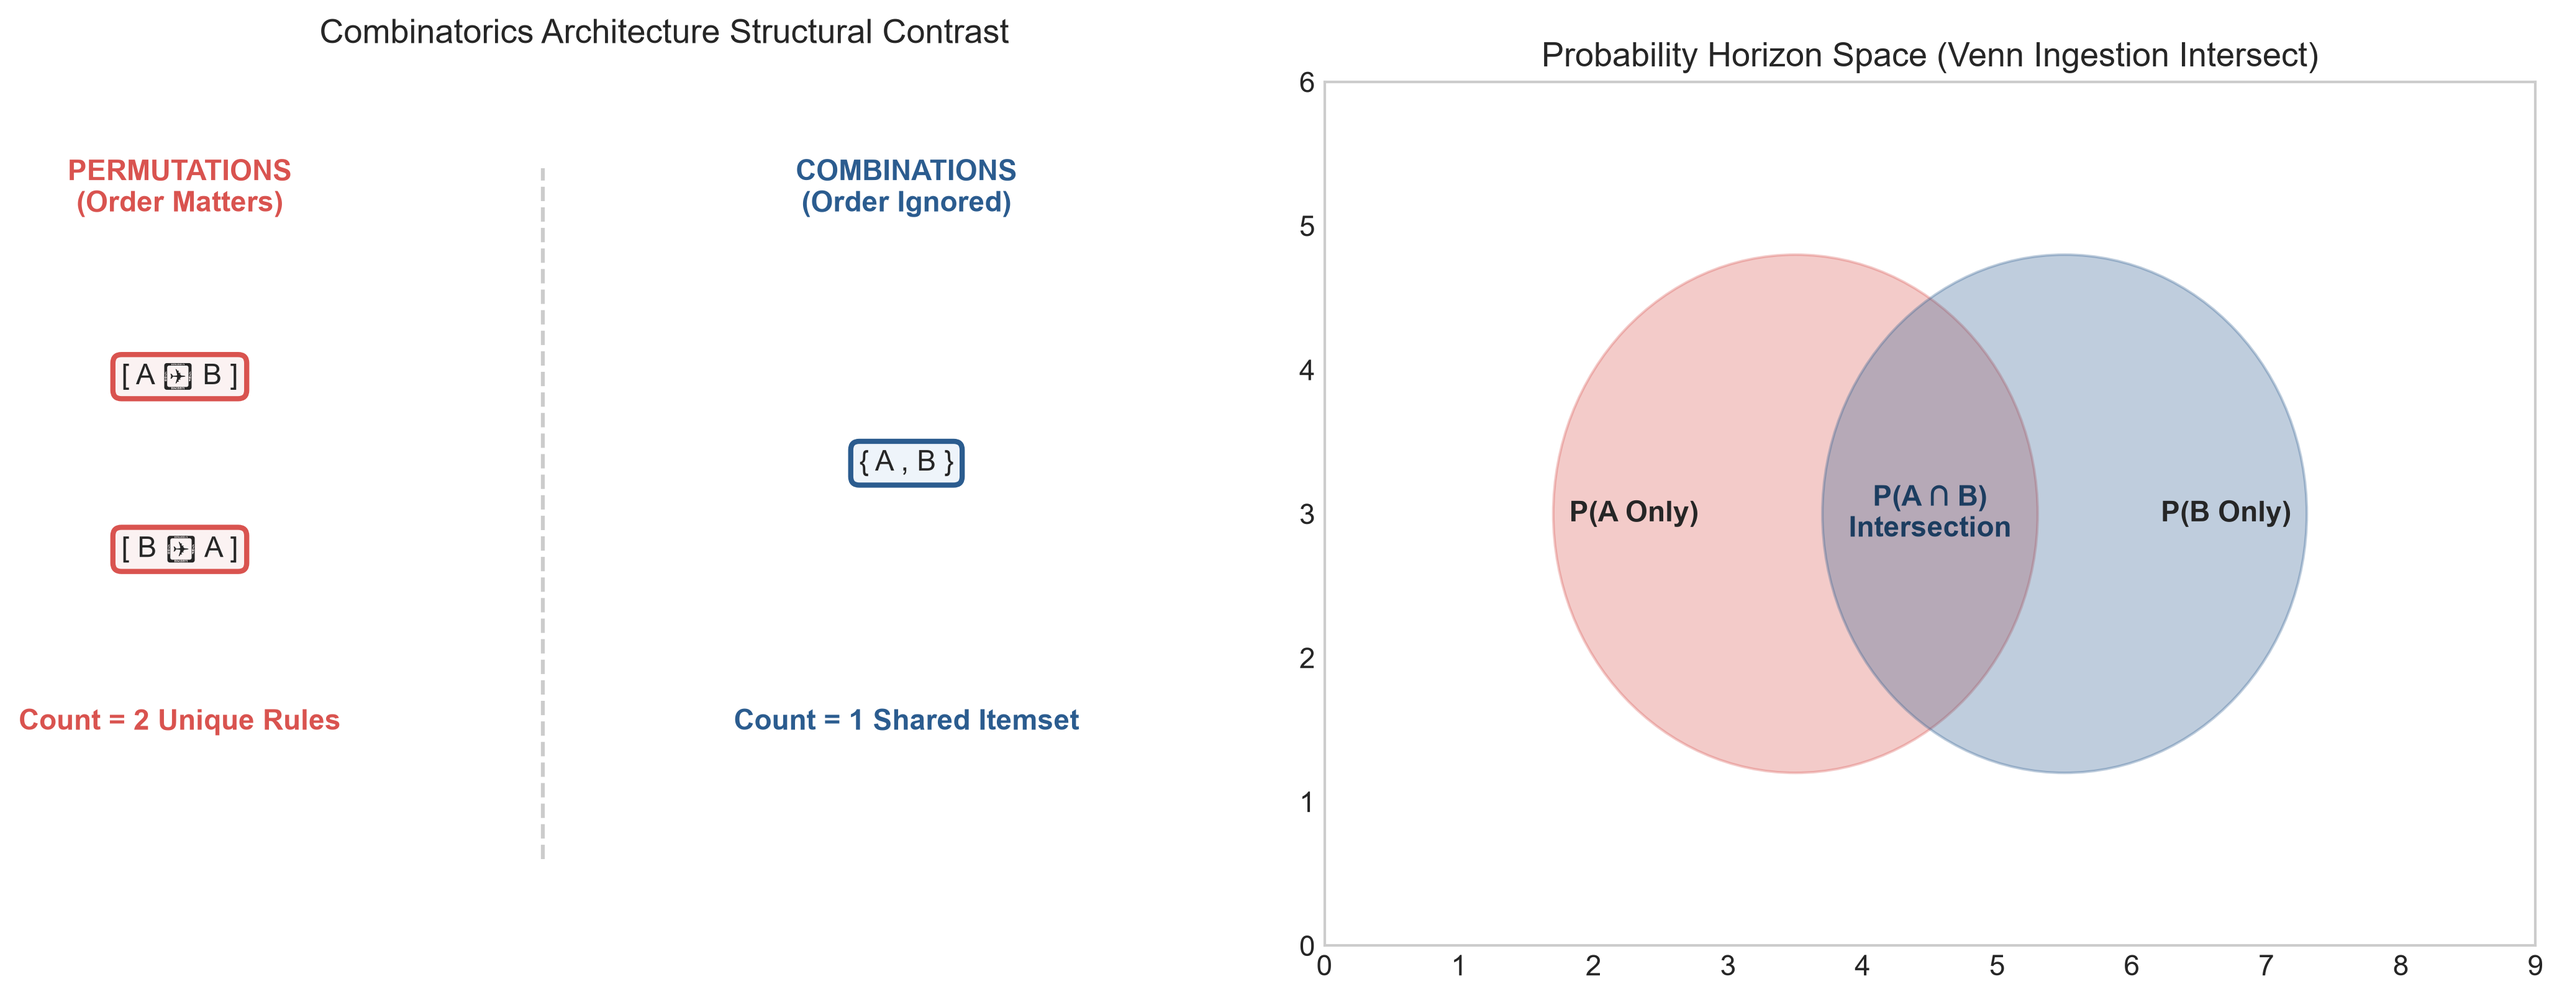
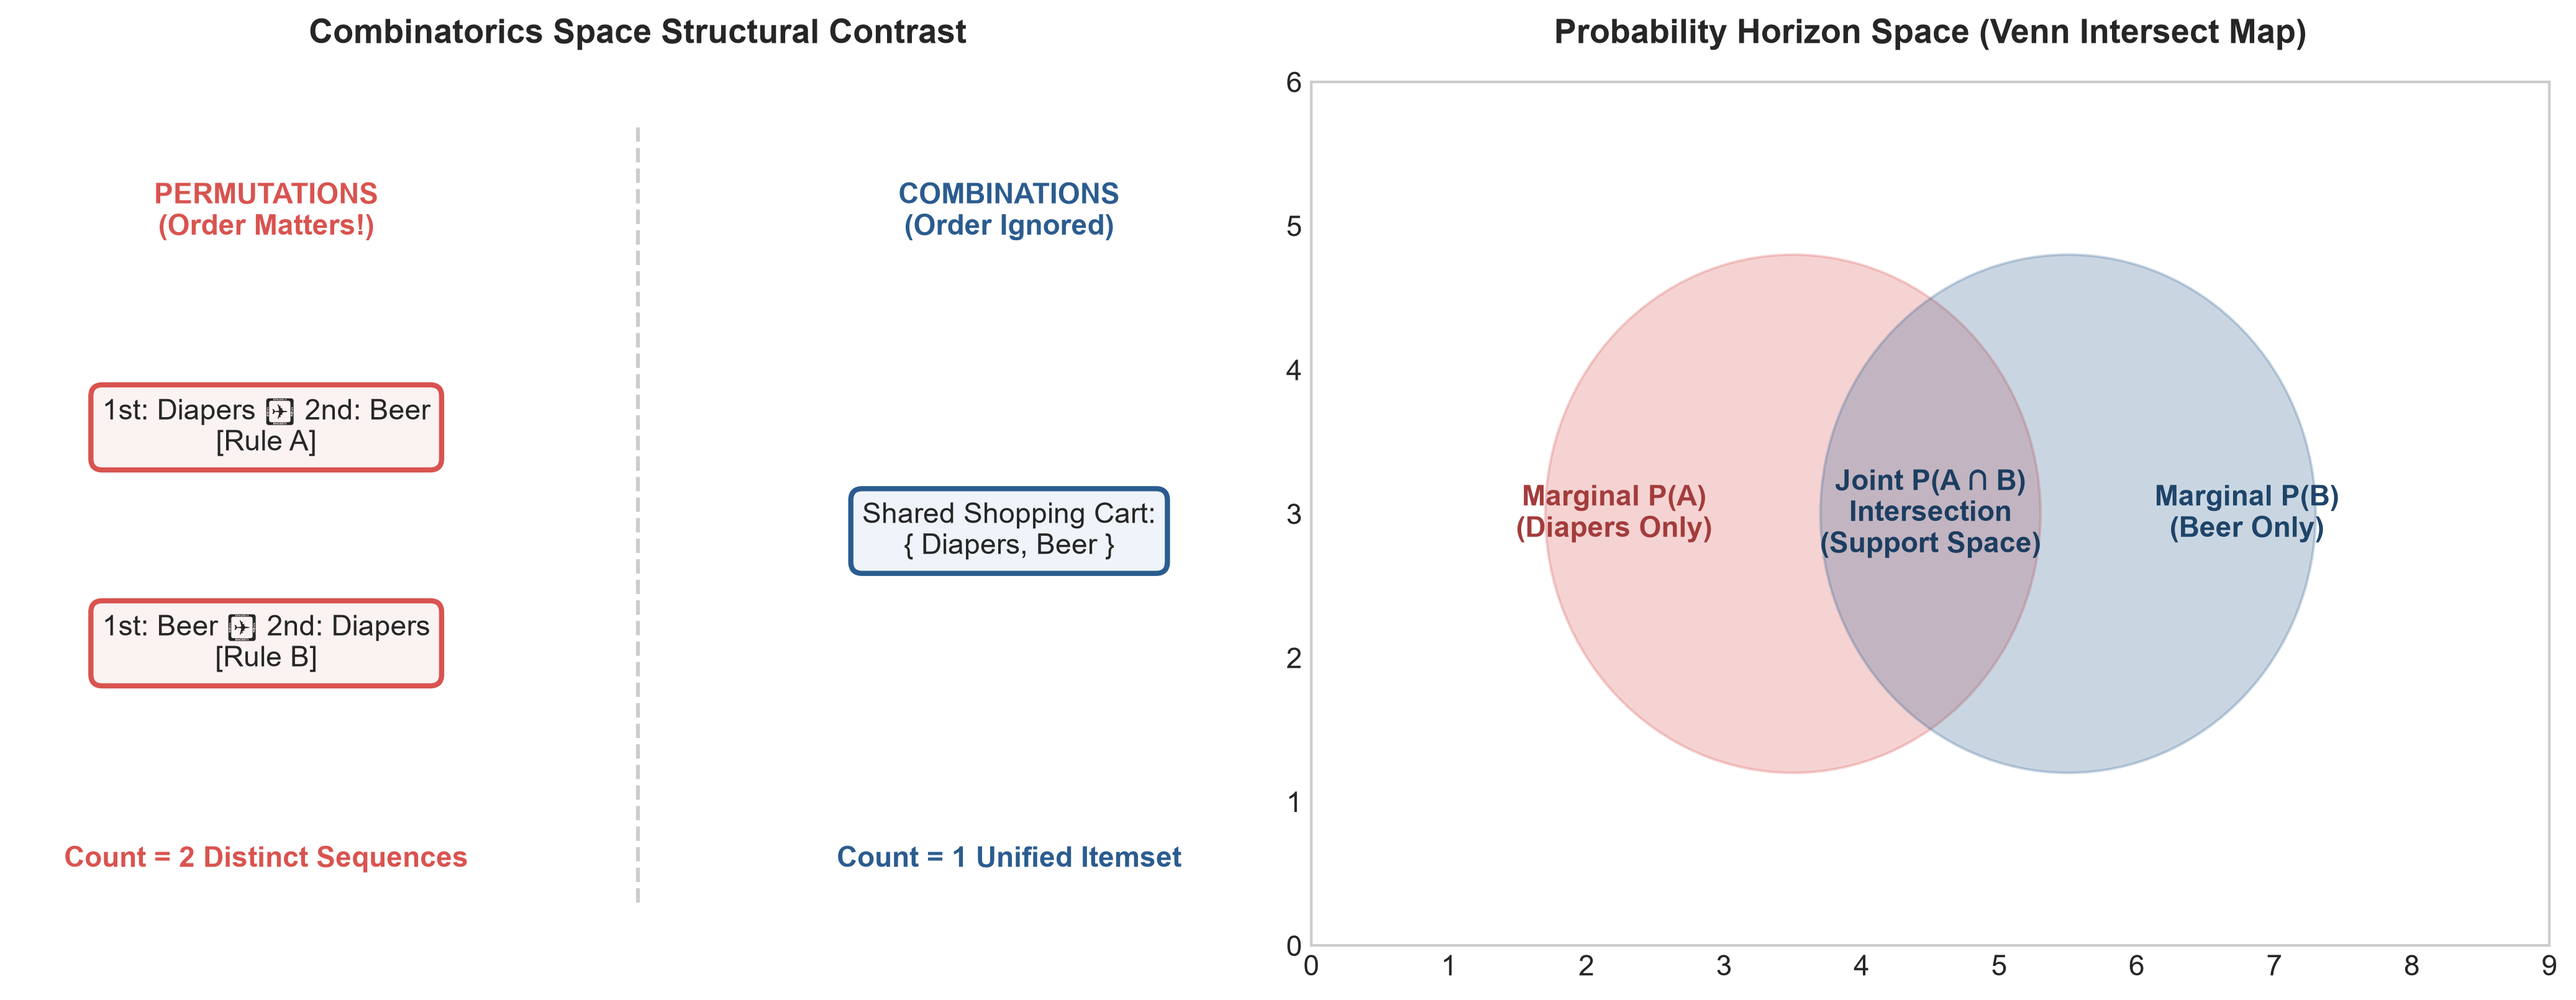
feat: complete market basket recommendation engine and compile advanced association rule topography manuals

diff --git a/docs/ml_concept_guide.md b/docs/ml_concept_guide.md
@@ -66,3 +66,86 @@ To calculate unsupervised relationships or complex feature weights, machine lear
 * **What it does in ML:** It drives target forecasting vectors. In classification projects, it defines output confidence thresholds: \(P(\text{Churn}=1 \mid \text{Calls}=5)\). In our current recommendation workspace, this is the exact operational framework behind **Confidence**—calculating the likelihood a user selects Item B once Item A is actively sitting inside their shopping cart.
 * **The Mathematical Formula:** 
   \[P(B\vert{}A) = \frac{P(A \cap B)}{P(A)}\]
+
+
+---
+
+# 🎲 Mathematical Architecture: Combinatorics & Probability Foundations
+
+To calculate unsupervised relationships or complex feature weights, machine learning systems must calculate how data groups itself, maps its space, and computes certainty boundaries.
+
+![Combinatorics & Probability Foundations Matrix](math_foundations_grid.png)
+
+---
+
+## 🧮 Section 1: Combinatorics (Data Configurations)
+
+### 1. Factorial (\(n!\))
+* **Definition:** The product of all positive integers less than or equal to a target integer \(n\).
+* **Function in ML:** It defines the computational upper bound of combinatorial explosions. If an e-commerce catalog contains 10 products, the total number of ways to arrange them is \(10!\) (\(3,628,800\)). Factorials warn data engineers when an unsupervised network is about to run out of RAM, forcing the use of prune limits like support gates.
+
+### 2. Combinations
+* **Definition:** The mathematical calculation of unique groupings created from a larger pool where **the internal order of items is completely ignored**.
+* **Function in ML:** It controls feature search space reduction. When our Apriori engine calculates an itemset like `{Bread, Milk, Butter}`, a combination treats it as a single, static object regardless of how the items are arranged in the shopping cart. This prevents algorithms from wasting computational cycles on identical item configurations.
+
+### 3. Permutations
+* **Definition:** The mathematical calculation of all possible ways to arrange a specific subset of items where **the order of arrangement matters completely**.
+* **Function in ML:** It calculates directional sequences. In market basket analysis, a permutation treats the sequence `[Diapers ➔ Beer]` as a completely different structural rule than `[Beer ➔ Diapers]`, capturing true directional purchasing behaviors.
+
+---
+
+## 🎲 Section 2: Probability Theory (Certainty Horizons)
+
+### 1. Marginal Probability (\(P(A)\))
+* **Definition:** The probability of a single isolated event occurring, completely **independent of any other variables** or conditions in the ecosystem.
+* **Function in ML:** It establishes baseline thresholds. Before checking if a user will buy a product based on their history, a model must understand the global popularity of that product.
+
+### 2. Joint Probability (\(P(A \cap B)\))
+* **Definition:** The probability of two or more independent or dependent events **occurring simultaneously** in a shared sample window.
+* **Function in ML:** It calculates the raw frequency of co-occurrence. In recommendation engines, this is the exact mathematical baseline for **Support**—measuring how frequently Item A and Item B land in the exact same transaction row across the database layout.
+
+### 3. Conditional Probability (\(P(B\vert{}A)\))
+* **Definition:** The probability of an event \(B\) occurring, given the absolute mathematical certainty that **another event \(A\) has already occurred**.
+* **Function in ML:** It drives target forecasting vectors. In our current recommendation workspace, this is the exact operational framework behind **Confidence**—calculating the likelihood a user selects Item B once Item A is actively sitting inside their shopping cart.
+
+
+---
+
+# 🏗 Computational Architecture: Structural Transformation & Sparsity Barriers
+
+Before mathematical algorithms can extract structural behavior paths across transactional text ledgers, the data coordinates must be reformatted into a rigid numerical grid.
+
+![One-Hot Encoding Blueprint and Sparsity Footprint Map](matrix_transformation_sparsity.png)
+
+---
+
+## 🗺 Section 3: Feature Space Digital Realignment
+
+### 1. One-Hot Encoding (Binary Matrix Profiling)
+* **Definition:** The process of converting unstructured, variable-length text records or item groups into a fixed-width row vector of boolean flags (`1` or `0`) mapped against a static global vocabulary array.
+* **Function in ML:** It establishes data conformity. It translates categorical items like `"Bread"` or `"Beer"` into clear spatial vectors, allowing optimization solvers and rule engines to compute frequency intersection metrics using highly parallelized linear algebra operations.
+
+### 2. The Matrix Sparsity Barrier
+* **Definition:** A structural condition where the number of empty elements or zero values in a data frame significantly outweighs the volume of active, populated records.
+* **Function in ML:** It serves as a critical performance warning threshold. In massive e-commerce architectures stocking hundreds of thousands of retail products, individual receipt rows will register as over 99.9% sparse. If unmanaged, this introduces massive memory leaks by forcing the CPU to read and hold billions of useless zero-bits in RAM.
+
+
+---
+
+# 🎯 Operational Evaluation Architecture: Advanced Association Metrics
+
+To convert raw uncovered item correlations into actionable corporate layout and digital checkout recommendation strategies, engines audit rules across confidence, lift, and conviction fields.
+
+![Association Rules Performance Topography](association_rules_topography.png)
+
+---
+
+## 📉 Section 4: Validation Metrics
+
+### 1. Lift (True Correlation Multiplier)
+* **Definition:** The ratio measuring the actual co-occurrence rate of two distinct item combinations against the probability of their completely independent, random distribution.
+* **Function in ML:** It removes baseline popularity bias. It ensures that a high confidence score represents a genuine human cross-purchasing habit rather than an artifact of a product simply being highly popular globally.
+
+### 2. Conviction (Asymmetric Rule Stability Ledger)
+* **Definition:** The mathematical evaluation measuring the directional dependency strength of an extracted rule by mapping the expected frequency of incorrect forecasts.
+* **Function in ML:** It validates directional rule stability, verifying that the predictive correlation moves in a stable, predictable vector from antecedent to consequent.
